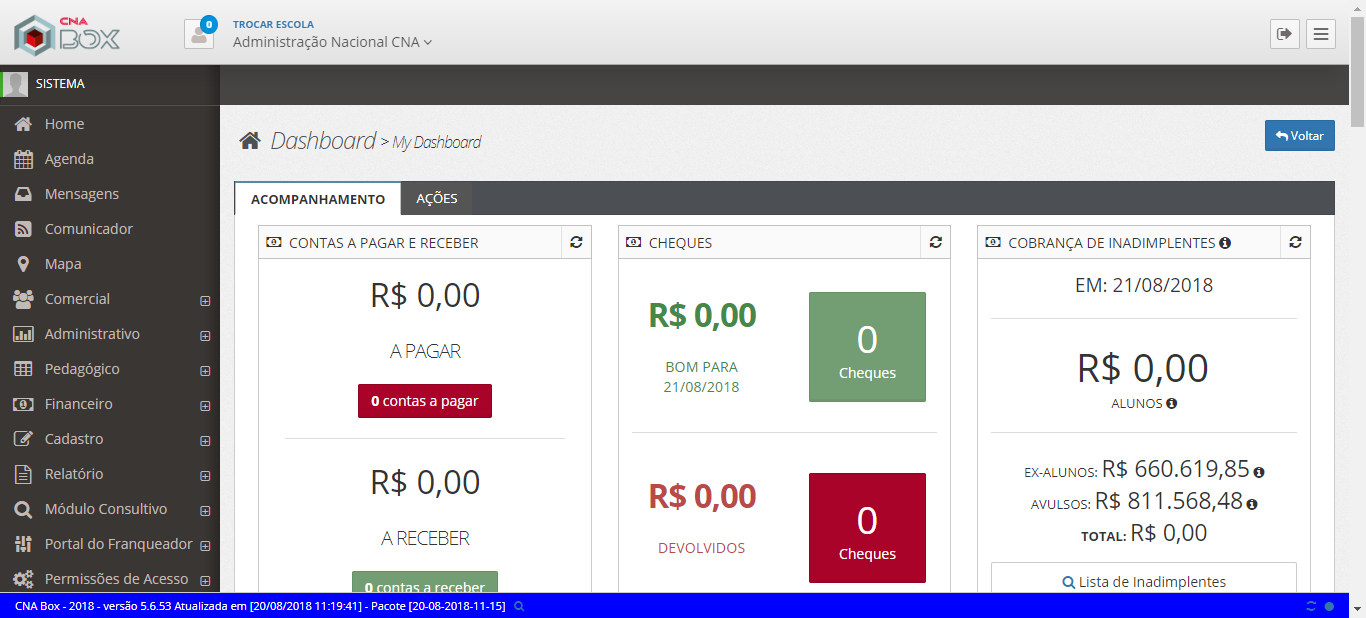
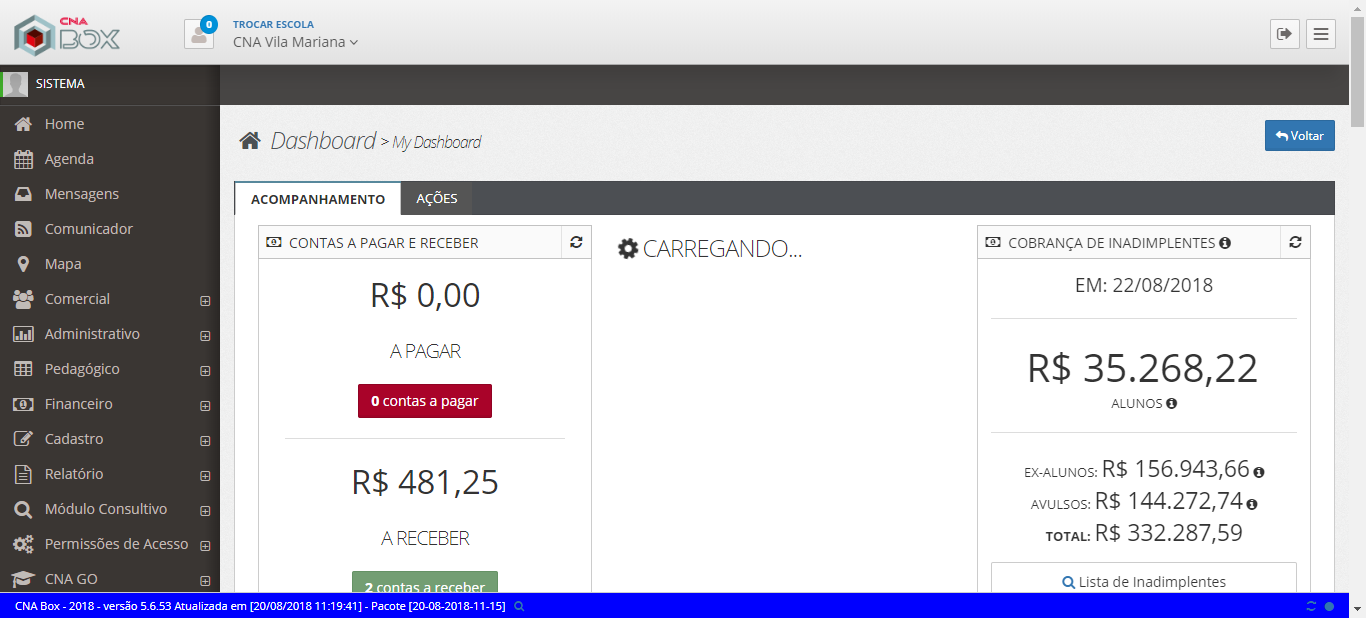
Login
Login

diff --git a/src/test/java/qa/cnabox/core/BaseTest.java b/src/test/java/qa/cnabox/core/BaseTest.java
@@ -31,7 +31,7 @@ public class BaseTest {
 		page.SetSenha("teste_Target321");
 		page.entrar();
 		page.abrirComboBox();
-		page.digitarNomeEscola("ADMINISTRACAO NACIONAL CNA");
+		page.digitarNomeEscola("Vila mariana");
 		page.setResultadoEscola();
 		page.acessarEscola();
 		
